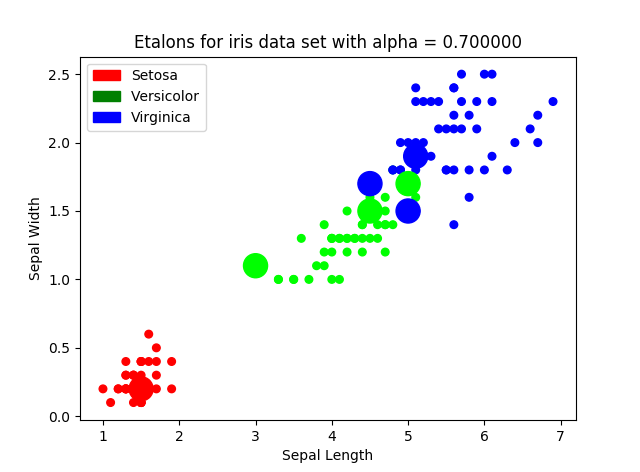
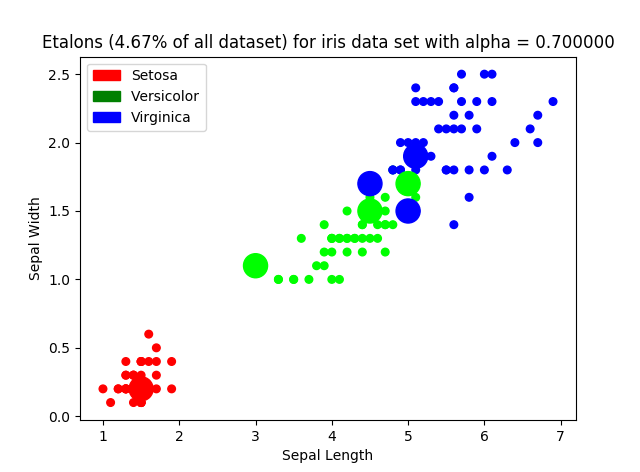
minor fixes

Changed region(s): [[0.0625, 0.0593, 0.9688, 0.1186]]

diff --git a/fris-stolp/fris-stolp.py b/fris-stolp/fris-stolp.py
@@ -4,25 +4,26 @@ import matplotlib.patches as mpatches
 from matplotlib.colors import ListedColormap
 from sklearn import neighbors, datasets
 from sklearn.neighbors import NearestNeighbors
+from sklearn.neighbors import KNeighborsClassifier
 from scipy.spatial import distance
 
 
-iris = datasets.load_iris()
-# take two features
-X = iris.data[:, [2, 3]]
-y = iris.target
+# iris = datasets.load_iris()
+# # take two features
+# X = iris.data[:, [2, 3]]
+# y = iris.target
 
-# wine = datasets.load_wine()
-# # take the first two features
-# # X = wine.data[:, [6,9]]
+wine = datasets.load_wine()
+# take the first two features
+X = wine.data[:, [6,9]]
 # X = wine.data[:, [5,12]]
-# y = wine.target
+y = wine.target
 
 n = len(X)  # data length
 xl = np.arange(n)  # data indexes
 
 eps = 1e-5
-alpha = 0.5
+alpha = 0.7
 tetta = 0.1
 
 # substraction of two sets
@@ -169,21 +170,91 @@ def fris_stolp():
 
     return etalons
 
-ans = fris_stolp()
+# ans = fris_stolp()
+# ans = [39, [66, 77, 98], [101, 106, 119]]
+# ans =  [[ 8, 21, 43], [ 73,  74,  78,  81,  86,  87,  89, 112, 129], [133, 142, 150, 151, 175]]
+ans = [[35, 38, 49], [ 61,  65,  66,  98, 113, 121, 126], [145, 162, 175]]
 print("final etalons:")
 print(ans)
+
 etalons = []
 for i in np.unique(y):
     etalons = sets_union(etalons, ans[i])
-colors = ListedColormap(['#FF0000', '#00FF00', '#0000FF'])
-plt.scatter(X[:,0], X[:,1], c=y, cmap=colors, s=30)
-plt.scatter(X[etalons,0], X[etalons,1], c=y[etalons], cmap=colors, s=300)
-# plt.title("Etalons for iris flower data set with alpha = %f" % alpha)
-plt.title("Etalons for iris data set with alpha = %f" % alpha)
-plt.xlabel("Sepal Length")
-plt.ylabel("Sepal Width")
-red_patch = mpatches.Patch(color="red", label="Setosa")
-green_patch = mpatches.Patch(color="green", label="Versicolor")
-blue_patch = mpatches.Patch(color="blue", label="Virginica")
-plt.legend(handles=[red_patch, green_patch, blue_patch])
-plt.show()
+etalons_persentage = 100*len(etalons)/len(y)
+
+def print_plot(X, Y, dataset, xlabel, ylabel, features, check, x_test, y_test) :
+    colors = ListedColormap(['#FF0000', '#00FF00', '#0000FF'])
+    plt.scatter(X[:,0], X[:,1], c=y, cmap=colors, s=30)
+    plt.scatter(X[etalons,0], X[etalons,1], c=y[etalons], cmap=colors, s=300)
+    plt.title("Etalons (%.2f%% of all dataset) for %s data set with alpha = %f" %
+              (etalons_persentage, dataset, alpha))
+    plt.xlabel(xlabel)
+    plt.ylabel(ylabel)
+    red_patch = mpatches.Patch(color="red", label=features[0])
+    green_patch = mpatches.Patch(color="green", label=features[1])
+    blue_patch = mpatches.Patch(color="blue", label=features[2])
+    plt.legend(handles=[red_patch, green_patch, blue_patch])
+
+    if (check):
+        colors = ListedColormap(['#FFFF00', '#FFFF00', '#FFFF00'])
+        plt.scatter(x_test[:, 0], x_test[:, 1], c=y_test, cmap=colors, s=30)
+    plt.show()
+
+# print_plot(X, y, 'iris flower', 'Sepal Length', 'Sepal Width', ['Setosa', 'Versicolor', 'Virginica'], False, None, None)
+# print_plot(X, y, 'wine', 'Phenols', 'Proline', ['Class1', 'Class2', 'Class3'], False, None, None)
+print_plot(X, y, 'wine', 'Flavonoids', 'Color int', ['Class1', 'Class2', 'Class3'], False, None, None)
+
+# calculate quality
+
+# test data for iris
+# x1 = [[1, 0.1], [1.23, 1.3], [1.5, 0.4], [2.62, 0.4], [1.37, 0.8]]
+# x2 = [[3.17, 0.89], [4.1, 1.1], [3.5, 1.7], [4.9, 1.26], [5.5, 1.2]]
+# x3 = [[6, 2], [7, 1.6], [6.5, 1.5], [5, 2], [4.5, 2.2]]
+# y_test = [0, 0, 0, 0, 0, 1, 1, 1, 1, 1, 2, 2, 2, 2, 2]
+
+
+# # test data for wine
+# x1 = [[3.5,1400], [2.5,1202], [3,1000], [3.8,1210], [3.3,1300]]
+# x2 = [[1.8,300], [2.0, 400], [2.8, 400], [3.5, 600], [3.8, 700]]
+# x3 = [[1.2, 380], [1.3, 700], [1.4, 780], [1.5, 650], [1.7, 830]]
+# y_test = [0, 0, 0, 0, 0, 1, 1, 1, 1, 1, 2, 2, 2, 2, 2]
+
+# test data for wine
+x1 = [[3.5, 9], [2.5, 8], [3, 5], [4, 8.3], [3.3, 10]]
+x2 = [[1, 2], [2, 3], [2.8, 2], [3.5, 3], [5, 4]]
+x3 = [[1, 10], [1.3, 12], [0.5, 8], [1.8, 9], [0.3, 4]]
+y_test = [0, 0, 0, 0, 0, 1, 1, 1, 1, 1, 2, 2, 2, 2, 2]
+
+x_test = x1+x2+x3
+x_test = np.array(x_test)
+
+# print_plot(X, y, 'iris flower', 'Sepal Length', 'Sepal Width', ['Setosa', 'Versicolor', 'Virginica'], True, x_test, y_test)
+# print_plot(X, y, 'wine', 'Phenols', 'Proline', ['Class1', 'Class2', 'Class3'], True, x_test, y_test)
+print_plot(X, y, 'wine', 'Flavonoids', 'Color int', ['Class1', 'Class2', 'Class3'], True, x_test, y_test)
+
+def calc_quality(X, y, x_test, y_test):
+    neigh = KNeighborsClassifier(n_neighbors=2)
+    neigh.fit(X, y)
+    sum = len(x_test)
+    for i, val in enumerate(x_test):
+        # print(neigh.predict(np.reshape(val, (1,2))), y_test[i])
+        # print(neigh.predict_proba(np.reshape(val, (1, 2))))
+        if (neigh.predict(np.reshape(val, (1,2))) != y_test[i]):
+            sum = sum - 1
+    quality = sum/len(x_test)
+    return quality
+
+# for all dataset
+quality = calc_quality(X, y, x_test, y_test)
+print("Classification quality for all dataset = %.2f" % quality)
+
+# for etalons
+x_etalons = []
+y_etalons = []
+for val in etalons:
+    x_etalons.append([X[val, 0], X[val, 1]])
+    y_etalons.append(y[val])
+
+quality = calc_quality(x_etalons, y_etalons, x_test, y_test)
+print("Classification quality for etalons dataset = %.2f" % quality)
+

diff --git a/fris-stolp/readme.md b/fris-stolp/readme.md
@@ -15,6 +15,19 @@
 ###### Пример работы алгоритма **FRiS-STOLP**:
 ![](https://raw.githubusercontent.com/elvinayakubova/machine-learning/master/fris-stolp/img/iris_05_01.png)
 ![](https://raw.githubusercontent.com/elvinayakubova/machine-learning/master/fris-stolp/img/iris_07_01.png)
+![](https://raw.githubusercontent.com/elvinayakubova/machine-learning/master/fris-stolp/img/iris_quality.png)
+
+Качество классификации на тестовых данных (желтые точки) при полной выборке = 0.93, при эталонах = 0.80
+
+![](https://raw.githubusercontent.com/elvinayakubova/machine-learning/master/fris-stolp/img/wine_quality_1.png)
+
+Качество классификации на тестовых данных (желтые точки) при полной выборке = 0.77, при эталонах = 0.70
+
+
+![](https://raw.githubusercontent.com/elvinayakubova/machine-learning/master/fris-stolp/img/wine_quality_2.png)
+
+Качество классификации на тестовых данных (желтые точки) при полной выборке = 0.99, при эталонах = 0.60
+
 ![](https://raw.githubusercontent.com/elvinayakubova/machine-learning/master/fris-stolp/img/iris_09_01.png)
 ![](https://raw.githubusercontent.com/elvinayakubova/machine-learning/master/fris-stolp/img/wine_05_01.png)
 ![](https://raw.githubusercontent.com/elvinayakubova/machine-learning/master/fris-stolp/img/wine_07_01.png)
@@ -27,5 +40,5 @@
 
 ### Ссылки
 
-1. http://www.machinelearning.ru/wiki/index.php?title=%D0%90%D0%BB%D0%B3%D0%BE%D1%80%D0%B8%D1%82%D0%BC_FRiS-%D0%A1%D0%A2%D0%9E%D0%9B%D0%9F
-2. http://www.machinelearning.ru/wiki/index.php?title=FRiS-%D1%84%D1%83%D0%BD%D0%BA%D1%86%D0%B8%D1%8F
+1. Алгоритм FRiS-STOLP http://www.machinelearning.ru/wiki/index.php?title=%D0%90%D0%BB%D0%B3%D0%BE%D1%80%D0%B8%D1%82%D0%BC_FRiS-%D0%A1%D0%A2%D0%9E%D0%9B%D0%9F
+2. FRiS-функция  http://www.machinelearning.ru/wiki/index.php?title=FRiS-%D1%84%D1%83%D0%BD%D0%BA%D1%86%D0%B8%D1%8F
